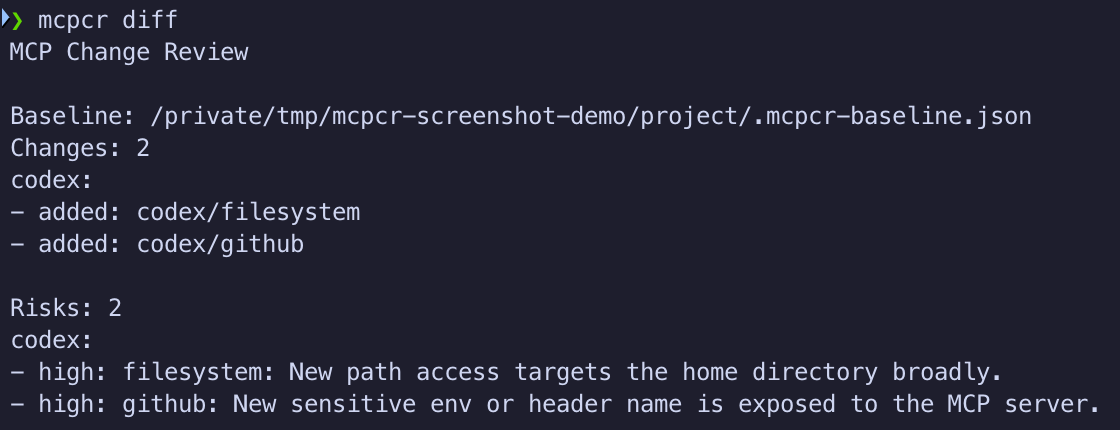
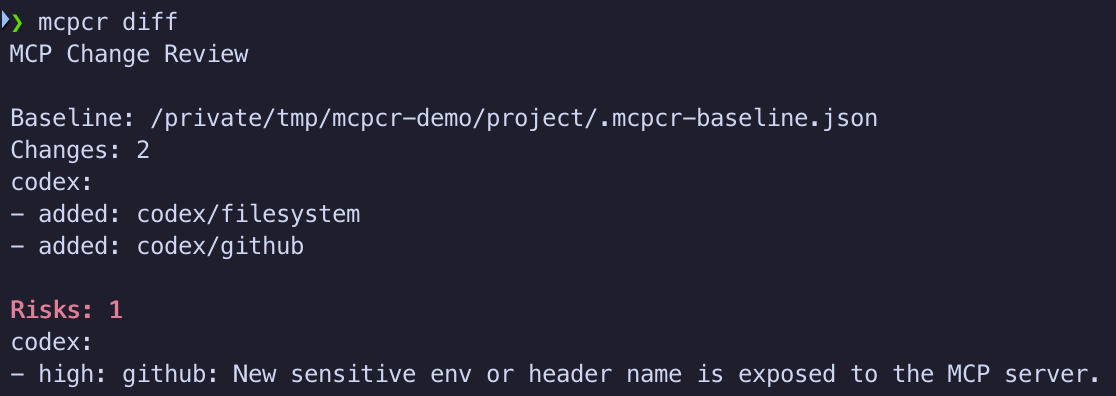
Highlight terminal risk section (#5)

diff --git a/src/reporters/terminal.ts b/src/reporters/terminal.ts
@@ -6,7 +6,12 @@ function changeLabel(change: ServerChange): string {
   return server ? `${change.kind}: ${server.client}/${server.name}${scope}` : change.kind;
 }
 
-export function renderTerminal(report: ReviewReport): string {
+function formatRiskHeader(count: number, color: boolean): string {
+  const label = "Risks: " + count;
+  return color && count > 0 ? "\u001b[1;31m" + label + "\u001b[0m" : label;
+}
+
+export function renderTerminal(report: ReviewReport, options: { color?: boolean } = {}): string {
   const lines: string[] = [];
   const { diff, risks } = report;
   lines.push("MCP Change Review");
@@ -33,12 +38,12 @@ export function renderTerminal(report: ReviewReport): string {
   }
 
   lines.push("");
-  lines.push(`Risks: ${risks.length}`);
+  lines.push(formatRiskHeader(risks.length, options.color === true));
   if (risks.length === 0) lines.push("No risks detected by enabled deterministic rules.");
   const riskClients = [...new Set(risks.map((risk) => risk.client))].sort();
   for (const client of riskClients) {
     lines.push(`${client}:`);
-    for (const item of risks.filter((risk) => risk.client === client)) lines.push(`- ${item.level}: ${item.serverName}: ${item.reason}`);
+    for (const item of risks.filter((risk) => risk.client === client)) lines.push("- " + item.level + ": " + item.serverName + ": " + item.reason);
   }
   return `${lines.join("\n")}\n`;
 }

diff --git a/src/cli.ts b/src/cli.ts
@@ -10,6 +10,8 @@ import { renderMarkdown } from "./reporters/markdown.js";
 import { hasFailingRisk, renderTerminal } from "./reporters/terminal.js";
 import { RiskLevel } from "./types.js";
 
+const useColor = process.stdout.isTTY === true && process.env.NO_COLOR === undefined;
+
 function flagValue(args: string[], name: string): string | undefined {
   const index = args.indexOf(name);
   return index >= 0 ? args[index + 1] : undefined;
@@ -54,7 +56,7 @@ async function main(): Promise<void> {
   if (command === "accept") {
     const yes = hasFlag(args, "-y", "--yes");
     const report = acceptCurrent(cwd, false);
-    console.log(renderTerminal(report));
+    console.log(renderTerminal(report, { color: useColor }));
     if (!yes && !(await confirmAccept())) {
       console.log("Baseline unchanged.");
       return;
@@ -88,7 +90,7 @@ async function main(): Promise<void> {
   if (command === "diff") {
     const failOn = flagValue(args, "--fail-on") as RiskLevel | undefined;
     const report = createReview(cwd);
-    console.log(renderTerminal(report));
+    console.log(renderTerminal(report, { color: useColor }));
     if (report.diff.after.issues.some((issue) => issue.severity === "high") || hasFailingRisk(report, failOn)) process.exitCode = 1;
     return;
   }

diff --git a/test/reporters.test.ts b/test/reporters.test.ts
@@ -69,6 +69,12 @@ test("renderTerminal groups changes and risks by client", () => {
   assert.match(output, /Changes: 1[\s\S]*codex:[\s\S]*Risks: 1[\s\S]*codex:/);
 });
 
+test("renderTerminal can color the risks header", () => {
+  const output = renderTerminal(report(), { color: true });
+  assert.match(output, /\u001b\[1;31mRisks: 1\u001b\[0m/);
+  assert.match(output, /- high: demo: Sensitive name/);
+});
+
 test("renderJson preserves stable top-level and nested field names", () => {
   const parsed = JSON.parse(renderJson(report()));
   assert.deepEqual(Object.keys(parsed), ["diff", "risks"]);

diff --git a/README.md b/README.md
@@ -44,6 +44,8 @@ In this Codex example, adding `filesystem` and `github` surfaces two permission 
 
 ![Example mcpcr diff output for Codex MCP changes](./assets/example-codex-diff.png)
 
+In this example, `github` is flagged because the configuration exposes a credential-style environment variable name, not because the GitHub MCP server is inherently unsafe.
+
 ## Safety model
 
 `mcp-change-review` reads local MCP configuration and reports risks using fixed rules.